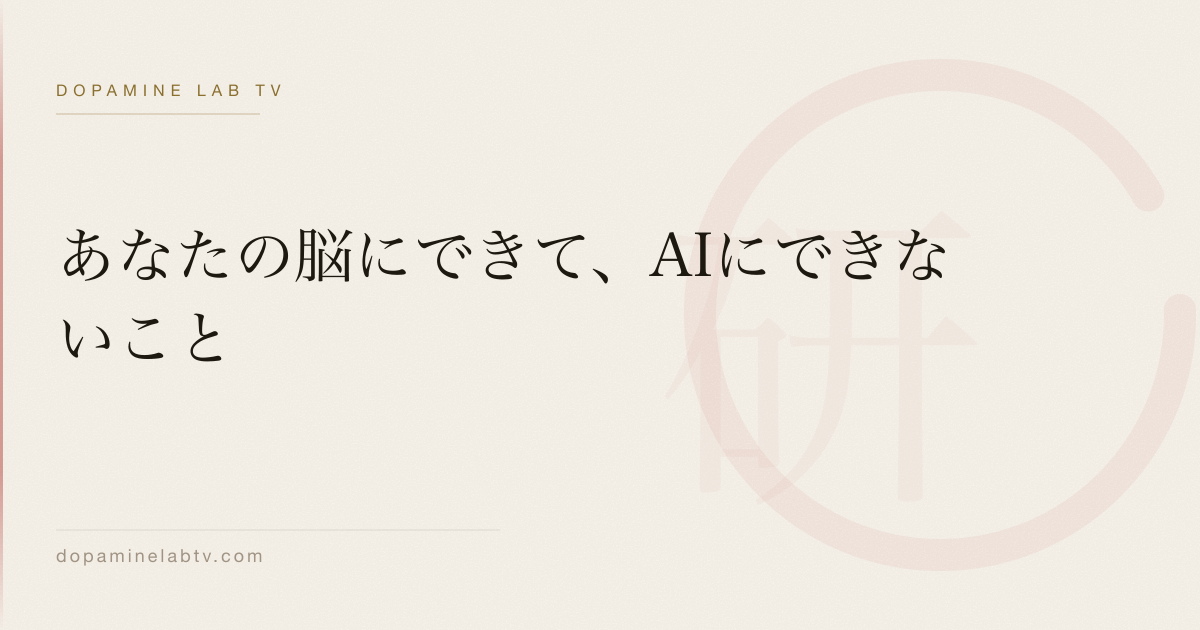
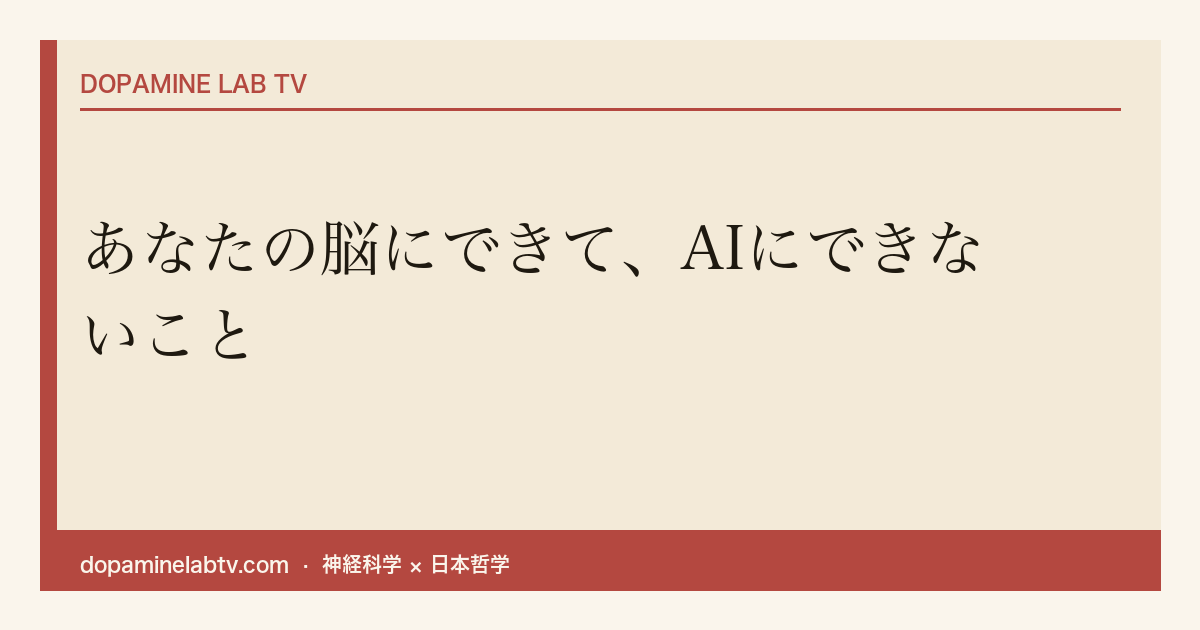
feat(og): JA per-article OGP images via Pillow + Hiragino, wired into build
- scripts/generate-og-ja.py: generates 1200×630 PNGs with washi-cream bg,
  vermillion accent bar, Hiragino Mincho title, and branded footer
- public/og/{naze-shuchu-dekinai,no-ai-niwa-dekinai-koto}.png: generated assets
- src/pages/ja/posts/[slug].astro: pass ogImage prop so JA articles use custom OGP
- package.json build: prepend python3 script so images are fresh before astro build

Changed region(s): [[0.0308, 0.0603, 0.9867, 0.9651], [0.1233, 0.4825, 0.1542, 0.5127]]

diff --git a/scripts/generate-og-ja.py b/scripts/generate-og-ja.py
@@ -1,0 +1,109 @@
+#!/usr/bin/env python3
+"""
+Generates JA per-article OGP images using Pillow + Hiragino font.
+Output: public/og/[slug].png  (1200×630)
+Run via: python3 scripts/generate-og-ja.py
+"""
+
+import os
+import re
+import textwrap
+from pathlib import Path
+from PIL import Image, ImageDraw, ImageFont
+
+ROOT = Path(__file__).parent.parent
+POSTS_JA = ROOT / 'src' / 'content' / 'posts' / 'ja'
+OG_DIR = ROOT / 'public' / 'og'
+OG_DIR.mkdir(parents=True, exist_ok=True)
+
+W, H = 1200, 630
+BG_COLOR    = (250, 245, 236)  # --bg washi cream
+CARD_COLOR  = (243, 234, 216)  # --bg-card
+ACCENT      = (180, 72, 64)    # --accent vermillion
+TEXT_COLOR  = (30, 25, 16)     # --text ink
+MUTED       = (126, 110, 90)   # --text-muted
+GOLD        = (138, 111, 46)   # --gold
+
+FONT_MINCHO = '/System/Library/Fonts/ヒラギノ明朝 ProN.ttc'
+FONT_GOTHIC = '/System/Library/Fonts/ヒラギノ角ゴシック W6.ttc'
+
+def parse_frontmatter(content):
+    match = re.match(r'^---\n(.*?)\n---', content, re.DOTALL)
+    if not match:
+        return {}
+    result = {}
+    for line in match.group(1).split('\n'):
+        if ':' not in line:
+            continue
+        key, _, val = line.partition(':')
+        result[key.strip()] = val.strip().strip('"\'')
+    return result
+
+def wrap_ja(text, max_chars=16):
+    lines = []
+    for i in range(0, len(text), max_chars):
+        lines.append(text[i:i+max_chars])
+    return lines
+
+def draw_og(title, slug):
+    img = Image.new('RGB', (W, H), BG_COLOR)
+    draw = ImageDraw.Draw(img)
+
+    # Card background
+    draw.rectangle([40, 40, W-40, H-40], fill=CARD_COLOR)
+
+    # Left accent bar
+    draw.rectangle([40, 40, 56, H-40], fill=ACCENT)
+
+    # Eyebrow label: "DOPAMINE LAB TV"
+    try:
+        font_eyebrow = ImageFont.truetype(FONT_GOTHIC, 22, index=0)
+    except Exception:
+        font_eyebrow = ImageFont.load_default()
+    draw.text((80, 72), 'DOPAMINE LAB TV', font=font_eyebrow, fill=ACCENT)
+
+    # Divider line
+    draw.rectangle([80, 108, W-80, 110], fill=ACCENT)
+
+    # Title text
+    lines = wrap_ja(title, max_chars=16)
+    n = len(lines)
+    font_size = 70 if n == 1 else 60 if n == 2 else 50
+    try:
+        font_title = ImageFont.truetype(FONT_MINCHO, font_size, index=1)
+    except Exception:
+        try:
+            font_title = ImageFont.truetype(FONT_MINCHO, font_size, index=0)
+        except Exception:
+            font_title = ImageFont.load_default()
+
+    line_height = int(font_size * 1.45)
+    block_height = n * line_height
+    start_y = (H - block_height) // 2 - 10
+
+    for i, line in enumerate(lines):
+        draw.text((80, start_y + i * line_height), line, font=font_title, fill=TEXT_COLOR)
+
+    # Footer bar
+    draw.rectangle([40, H-100, W-40, H-40], fill=ACCENT)
+    try:
+        font_footer = ImageFont.truetype(FONT_GOTHIC, 20, index=0)
+    except Exception:
+        font_footer = ImageFont.load_default()
+    draw.text((80, H-76), 'dopaminelabtv.com  ·  神経科学 × 日本哲学', font=font_footer, fill=(250, 245, 236))
+
+    out_path = OG_DIR / f'{slug}.png'
+    img.save(str(out_path), 'PNG', optimize=True)
+    size_kb = out_path.stat().st_size // 1024
+    print(f'✓ og/{slug}.png ({size_kb}KB)  "{title}"')
+
+if __name__ == '__main__':
+    for md_file in sorted(POSTS_JA.glob('*.md')):
+        slug = md_file.stem
+        content = md_file.read_text(encoding='utf-8')
+        fm = parse_frontmatter(content)
+        title = fm.get('title', '')
+        if not title:
+            print(f'  ⚠ no title: {md_file.name}')
+            continue
+        draw_og(title, slug)
